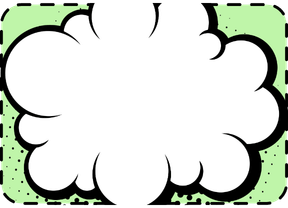
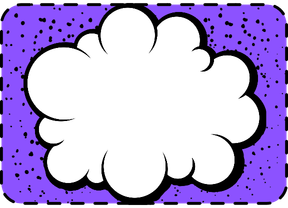
Color Change

diff --git a/src/App.jsx b/src/App.jsx
@@ -372,7 +372,7 @@ export default function App() {
     return (
       <div className="min-h-screen comic-bg flex items-center justify-center p-6">
         <div
-          className="comic-panel p-6 rounded-3xl flex flex-col items-center comic-glow-emerald shadow-2xl box-border gap-6 bg-[#18181f]"
+          className="comic-panel p-6 rounded-3xl flex flex-col items-center comic-glow-amber shadow-2xl box-border gap-6 bg-[#18181f]"
           style={{ width: '480px', maxWidth: '100%' }}
         >
           {/* Header Title */}
@@ -403,7 +403,7 @@ export default function App() {
     return (
       <div className="min-h-screen w-full comic-bg text-white flex items-center justify-center p-4">
         <div
-          className="comic-panel p-8 sm:p-10 rounded-3xl flex flex-col gap-5 comic-glow-emerald shadow-2xl box-border overflow-hidden"
+          className="comic-panel p-8 sm:p-10 rounded-3xl flex flex-col gap-5 comic-glow-amber shadow-2xl box-border overflow-hidden"
           style={{ width: '480px', maxWidth: '100%' }}
         >
           <div className="text-center">
@@ -421,7 +421,7 @@ export default function App() {
                 maxLength={12}
                 value={playerName}
                 onChange={(e) => setPlayerName(e.target.value)}
-                className="w-full max-w-full box-border bg-zinc-900 border-4 border-black rounded-xl px-3.5 py-2.5 text-white placeholder-zinc-500 focus:outline-none focus:border-emerald-400 focus:ring-2 focus:ring-emerald-400/30 font-bold text-sm shadow-[2px_2px_0px_0px_rgba(0,0,0,1)] transition-all"
+                className="w-full max-w-full box-border bg-zinc-900 border-4 border-black rounded-xl px-3.5 py-2.5 text-white placeholder-zinc-500 focus:outline-none focus:border-amber-400 focus:ring-2 focus:ring-emerald-400/30 font-bold text-sm shadow-[2px_2px_0px_0px_rgba(0,0,0,1)] transition-all"
               />
             </div>
 
@@ -480,7 +480,7 @@ export default function App() {
     return (
       <div className="min-h-screen comic-bg text-white p-6 flex flex-col items-center justify-center">
         <div
-          className="comic-panel p-6 rounded-3xl flex flex-col box-border mx-auto comic-glow-emerald gap-6"
+          className="comic-panel p-6 rounded-3xl flex flex-col box-border mx-auto comic-glow-amber gap-6"
           style={{ width: '480px', maxWidth: '100%' }}
         >
           {/* Top Section: Room Code & Winning Score */}
@@ -587,7 +587,7 @@ export default function App() {
   const totalPlayersCount = Object.keys(roomData.players || {}).length;
   const submissionsCount = Object.keys(roomData.submissions || {}).length;
 
-  const phaseGlowClass = roomData.status === 'judging' ? 'comic-glow-purple' : 'comic-glow-emerald';
+  const phaseGlowClass = roomData.status === 'judging' ? 'comic-glow-purple' : 'comic-glow-amber';
 
   return (
     <div className="min-h-screen comic-bg text-white p-6 flex flex-col items-center">
@@ -701,7 +701,7 @@ export default function App() {
         // --- PLAYER WAITING SCREEN ---
         <div className="w-full max-w-4xl flex flex-col items-center mb-6">
           <div
-            className="comic-panel text-center p-5 rounded-3xl mb-5 comic-glow-emerald box-border mx-auto"
+            className="comic-panel text-center p-5 rounded-3xl mb-5 comic-glow-amber box-border mx-auto"
             style={{ width: '480px', maxWidth: '100%' }}
           >
             <h3 className="text-lg font-black text-emerald-300 mb-1.5">COMBO SUBMITTED!</h3>
